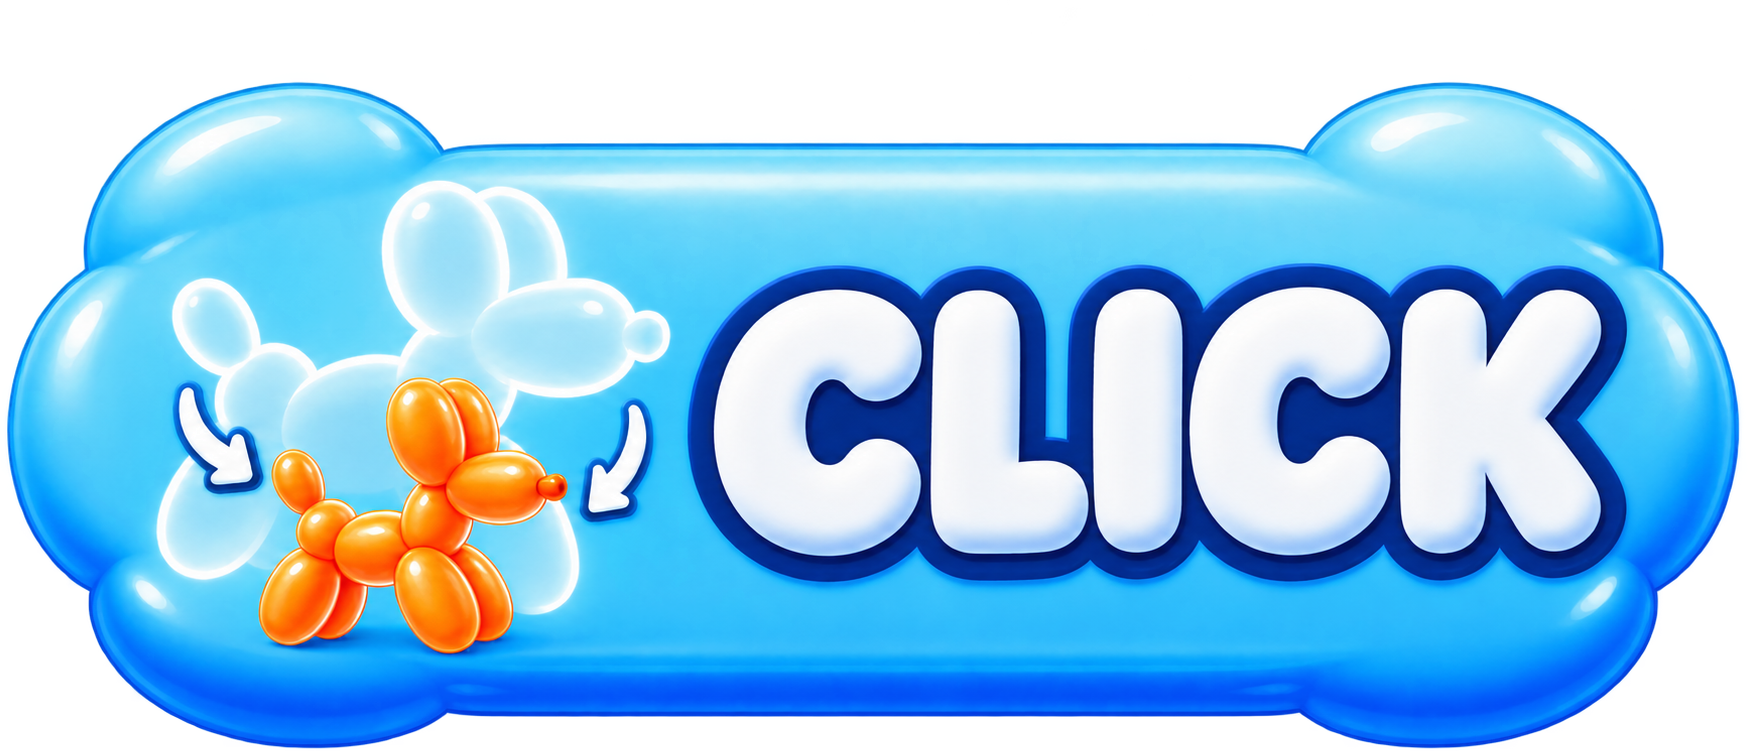
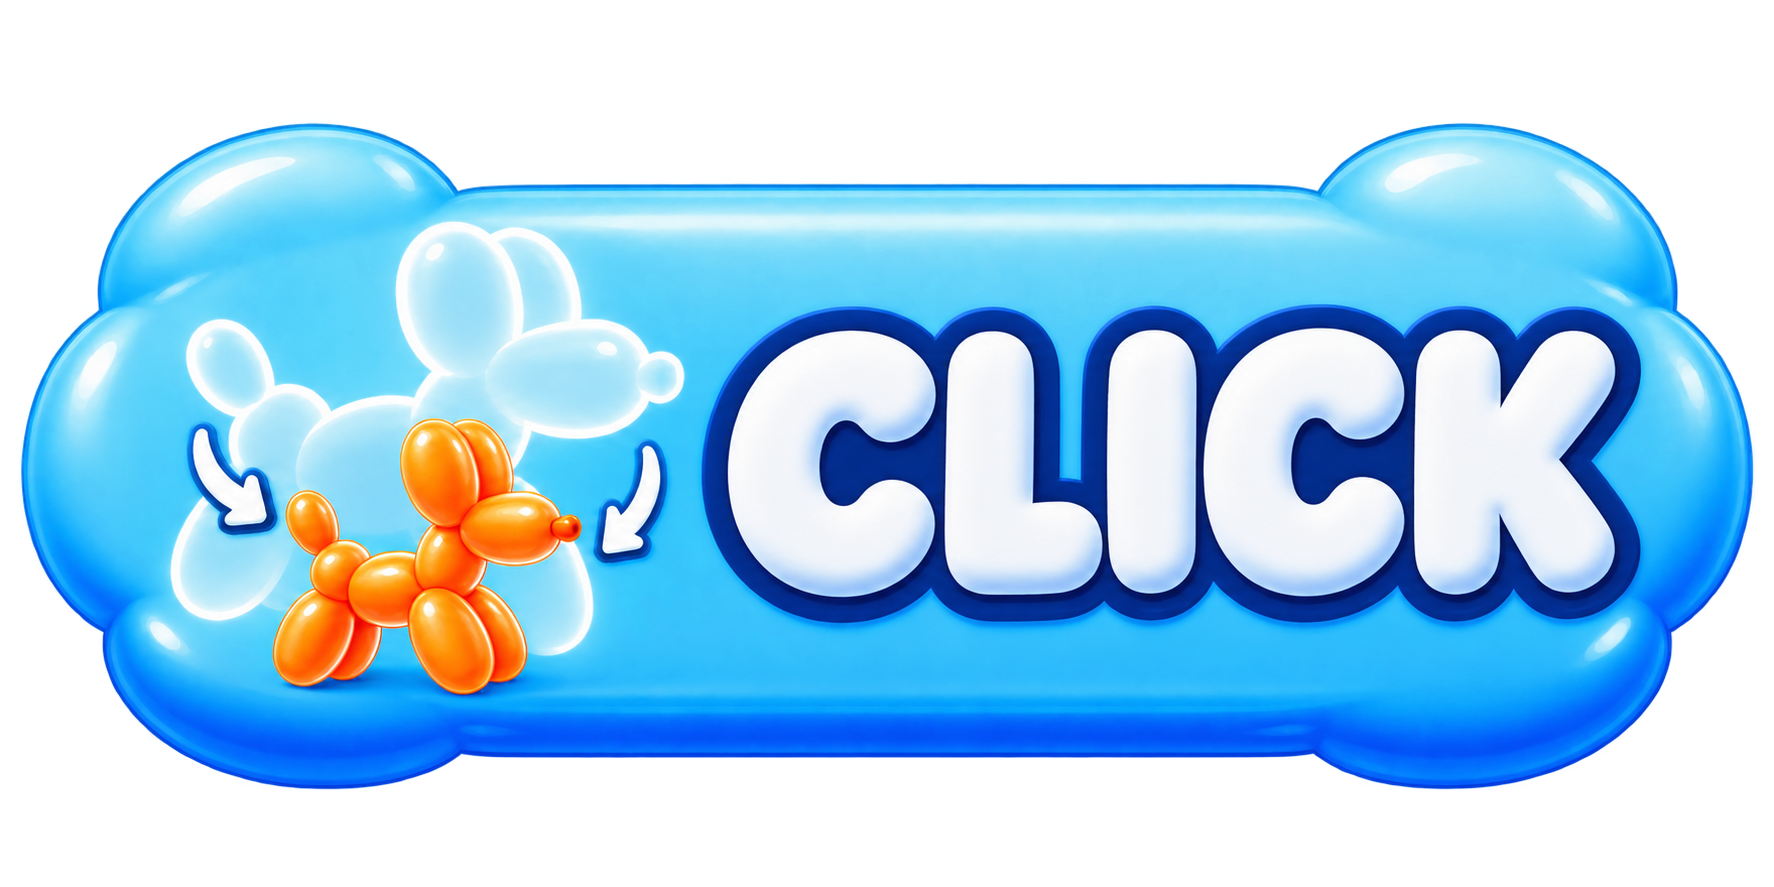
Apply supplied CLICK shrink artwork and rebalance menu and gameplay UI
Style the initially inactive shrink control from its own Awake/OnEnable lifecycle, rather than relying on the unused legacy menu theme. Install the exact supplied PNG as a Sprite, bake it into Game.unity, hide the old label and update the legacy scene builder.

Enlarge and align the main coin icon/count; center navigation icons and labels as a group; enlarge and space PLAY. Scale the complete air HUD to 50% with its logic unchanged. Center properly sized pause bars inside the gameplay pause button.

Validation: exact PNG bytes/alpha, Sprite import and baked references, lifecycle bindings, font/layout measurements at multiple widths, unchanged air and shrink/cooldown behavior, delimiter and diff checks passed. Unity is unavailable, so no Play-mode validation was run.

diff --git a/Assets/Scripts/BalloonDogBalloonThemeRuntime.cs b/Assets/Scripts/BalloonDogBalloonThemeRuntime.cs
@@ -174,9 +174,9 @@ public sealed class BalloonDogBalloonThemeRuntime : MonoBehaviour
             play.anchorMin = play.anchorMax = new Vector2(.5f, 0f);
             play.anchoredPosition = new Vector2(0f, 180f);
             play.sizeDelta = new Vector2(890f, 270f);
-            StyleButton(play, new Color(0.35f, 0.84f, 0.23f, 1f), "PLAY", 88f);
-            SetButtonLabelTuning(play, 0f, new Vector4(8f, 2f, 8f, 4f));
+            StyleButton(play, new Color(0.35f, 0.84f, 0.23f, 1f), "PLAY", 112f);
             SetButtonIcon(play, null);
+            SetButtonLabelTuning(play, 8f, new Vector4(30f, 6f, 30f, 12f));
             BalloonDogMenuArtwork.Apply(play, "butonyesil", true);
         }
 
@@ -189,24 +189,9 @@ public sealed class BalloonDogBalloonThemeRuntime : MonoBehaviour
             market.sizeDelta = size;
             StyleButton(market, new Color(0.18f, 0.54f, 0.96f, 1f), "MARKET", 68f);
             SetButtonLabelTuning(market, 0f, new Vector4(10f, 4f, 10f, 6f));
-            SetButtonIcon(market, GetMarketIconSprite(), 92f);
+            SetButtonIcon(market, GetMarketIconSprite(), 104f);
             BalloonDogMenuArtwork.Apply(market, "butonmavi", true);
-            RectTransform marketIcon = market.Find("ThemeIcon") as RectTransform;
-            if (marketIcon != null)
-            {
-                marketIcon.anchorMin = marketIcon.anchorMax = new Vector2(0.5f, 0.5f);
-                marketIcon.anchoredPosition = new Vector2(-size.x * .5f + 86f, 6f);
-            }
-            TMP_Text marketLabel = market.GetComponentInChildren<TMP_Text>(true);
-            if (marketLabel != null)
-            {
-                marketLabel.margin = Vector4.zero;
-                marketLabel.fontSize = 68f;
-                marketLabel.rectTransform.anchorMin = marketLabel.rectTransform.anchorMax = new Vector2(0.5f, 0.5f);
-                marketLabel.rectTransform.pivot = new Vector2(0.5f, 0.5f);
-                marketLabel.rectTransform.anchoredPosition = new Vector2(62f, 6f);
-                marketLabel.rectTransform.sizeDelta = new Vector2(size.x - 164f, 180f);
-            }
+            LayoutNavigationContent(market);
         }
 
         RectTransform skins = FindRect("SkinsNavButton");
@@ -218,25 +203,34 @@ public sealed class BalloonDogBalloonThemeRuntime : MonoBehaviour
             skins.sizeDelta = size;
             StyleButton(skins, new Color(0.18f, 0.54f, 0.96f, 1f), "SKINS", 68f);
             SetButtonLabelTuning(skins, 0f, new Vector4(10f, 4f, 10f, 6f));
-            SetButtonIcon(skins, GetSkinsIconSprite(), 92f);
+            SetButtonIcon(skins, GetSkinsIconSprite(), 104f);
             BalloonDogMenuArtwork.Apply(skins, "butonmavi", true);
-            RectTransform skinsIcon = skins.Find("ThemeIcon") as RectTransform;
-            if (skinsIcon != null)
-            {
-                skinsIcon.anchorMin = skinsIcon.anchorMax = new Vector2(0.5f, 0.5f);
-                skinsIcon.anchoredPosition = new Vector2(-size.x * .5f + 86f, 6f);
-            }
-            TMP_Text skinsLabel = skins.GetComponentInChildren<TMP_Text>(true);
-            if (skinsLabel != null)
-            {
-                skinsLabel.margin = Vector4.zero;
-                skinsLabel.fontSize = 68f;
-                skinsLabel.rectTransform.anchorMin = skinsLabel.rectTransform.anchorMax = new Vector2(0.5f, 0.5f);
-                skinsLabel.rectTransform.pivot = new Vector2(0.5f, 0.5f);
-                skinsLabel.rectTransform.anchoredPosition = new Vector2(62f, 6f);
-                skinsLabel.rectTransform.sizeDelta = new Vector2(size.x - 164f, 180f);
-            }
+            LayoutNavigationContent(skins);
         }
+    }
+
+    private static void LayoutNavigationContent(RectTransform button)
+    {
+        RectTransform icon = button.Find("ThemeIcon") as RectTransform;
+        TMP_Text label = button.GetComponentInChildren<TMP_Text>(true);
+        if (icon == null || label == null) return;
+        label.margin = Vector4.zero;
+        label.enableAutoSizing = false;
+        label.fontSize = 68f;
+        float labelWidth = label.GetPreferredValues(label.text).x + 8f;
+        float scale = Mathf.Min(1f, (button.sizeDelta.x - 80f) / (104f + 20f + labelWidth));
+        float iconSize = 104f * scale;
+        float gap = 20f * scale;
+        labelWidth *= scale;
+        label.fontSize *= scale;
+        float groupWidth = iconSize + gap + labelWidth;
+        icon.anchorMin = icon.anchorMax = icon.pivot = new Vector2(.5f, .5f);
+        icon.sizeDelta = new Vector2(iconSize, iconSize);
+        icon.anchoredPosition = new Vector2((-groupWidth + iconSize) * .5f, 6f);
+        RectTransform text = label.rectTransform;
+        text.anchorMin = text.anchorMax = text.pivot = new Vector2(.5f, .5f);
+        text.anchoredPosition = new Vector2((groupWidth - labelWidth) * .5f, 6f);
+        text.sizeDelta = new Vector2(labelWidth, 150f);
     }
 
     private static void GetMainNavigationLayout(Transform parent, out Vector2 size, out float offset)
@@ -262,13 +256,17 @@ public sealed class BalloonDogBalloonThemeRuntime : MonoBehaviour
             coinCard.anchoredPosition = new Vector2(18f, -14f);
             EnsurePillBackground(coinCard, new Color(0.91f, 0.86f, 0.63f, 0.96f), new Color(1f, 1f, 1f, 0.03f));
             BalloonDogMenuArtwork.Apply(coinCard, "coin_panel_background");
-            SetPillIcon(coinCard, GetCoinIconSprite(), Color.white, 44f, 34f);
+            SetPillIcon(coinCard, GetCoinIconSprite(), Color.white, 62f, 44f);
+            RectTransform icon = coinCard.Find("ThemePillIcon") as RectTransform;
+            if (icon != null) icon.anchoredPosition = new Vector2(44f, 6f);
         }
 
         if (coin != null)
         {
             coin.text = BalloonDogEconomy.Coins.ToString("N0");
-            coin.fontSize = 38f;
+            coin.fontSize = 46f;
+            coin.fontSizeMin = 20f;
+            coin.fontSizeMax = 46f;
             coin.fontStyle = FontStyles.Normal;
             coin.fontWeight = FontWeight.Bold;
             coin.alignment = TextAlignmentOptions.MidlineLeft;
@@ -278,9 +276,9 @@ public sealed class BalloonDogBalloonThemeRuntime : MonoBehaviour
             RectTransform labelRect = coin.rectTransform;
             labelRect.anchorMin = Vector2.zero;
             labelRect.anchorMax = Vector2.one;
-            labelRect.offsetMin = Vector2.zero;
-            labelRect.offsetMax = Vector2.zero;
-            coin.margin = new Vector4(76f, 0f, 18f, 0f);
+            labelRect.offsetMin = new Vector2(88f, 18f);
+            labelRect.offsetMax = new Vector2(-18f, -6f);
+            coin.margin = Vector4.zero;
         }
 
         RectTransform settings = FindRect("MainSettingsButton");

diff --git a/Assets/Scripts/BalloonDogModernUI.cs b/Assets/Scripts/BalloonDogModernUI.cs
@@ -2597,7 +2597,16 @@ public sealed class BalloonDogModernUI : MonoBehaviour
         stage.anchorMax = Vector2.one;
         stage.pivot = Vector2.one;
         stage.anchoredPosition = new Vector2(-24f, -24f);
-        pause.GetComponentInChildren<TMP_Text>().raycastTarget = false;
+        RectTransform pauseRect = pause.transform as RectTransform;
+        pauseRect.anchoredPosition = Vector2.zero;
+        pauseRect.sizeDelta = new Vector2(112f, 112f);
+        pause.GetComponentInChildren<TMP_Text>(true).gameObject.SetActive(false);
+        // The general action-button label has wide side margins. Use a centered
+        // pair of bars so a small pause button keeps a full-size, balanced icon.
+        RectTransform pauseGlyph = CreateRect("PauseGlyph", pause.transform);
+        SetRect(pauseGlyph, new Vector2(0f, 4f), new Vector2(42f, 44f));
+        CreateImage(pauseGlyph, "LeftBar", new Vector2(-12f, 0f), new Vector2(13f, 44f), Color.white, false);
+        CreateImage(pauseGlyph, "RightBar", new Vector2(12f, 0f), new Vector2(13f, 44f), Color.white, false);
 
     }
 
@@ -2606,9 +2615,10 @@ public sealed class BalloonDogModernUI : MonoBehaviour
         RectTransform card = CreateRect("GameplayAirHud", parent);
         card.anchorMin = new Vector2(0f, 1f);
         card.anchorMax = Vector2.one;
-        card.pivot = new Vector2(.5f, 1f);
+        card.pivot = new Vector2(0f, 1f);
         card.offsetMin = new Vector2(24f, -150f);
         card.offsetMax = new Vector2(-160f, -22f);
+        card.localScale = Vector3.one * .5f;
         Image shell = card.gameObject.AddComponent<Image>();
         shell.sprite = GetRoundedSprite();
         shell.type = Image.Type.Sliced;

diff --git a/Assets/Scripts/MainMenuController.cs b/Assets/Scripts/MainMenuController.cs
@@ -437,7 +437,7 @@ public sealed class MainMenuController : MonoBehaviour
             30f);
 
         ApplyCleanMainMenuLayout();
-        StyleShrinkButton();
+        StyleShrinkButton(FindNamedObject("ShrinkButton"));
     }
 
     private void ApplyCleanMainMenuLayout()
@@ -725,10 +725,8 @@ public sealed class MainMenuController : MonoBehaviour
         rect.localScale = Vector3.one;
     }
 
-    private static void StyleShrinkButton()
+    public static void StyleShrinkButton(GameObject shrinkButton)
     {
-        GameObject shrinkButton = FindNamedObject("ShrinkButton");
-
         if (shrinkButton == null)
         {
             return;
@@ -814,9 +812,10 @@ public sealed class MainMenuController : MonoBehaviour
 
         cachedShrinkIconSprite = Sprite.Create(
             texture,
-            new Rect(0f, 0f, texture.width, texture.height),
+            new Rect(14f, 95f, 1748f, 751f),
             new Vector2(0.5f, 0.5f),
             100f);
+        cachedShrinkIconSprite.name = "Shrink CLICK Artwork";
 
         return cachedShrinkIconSprite;
     }

diff --git a/Assets/Scripts/BalloonDogPrototypeBootstrap.cs b/Assets/Scripts/BalloonDogPrototypeBootstrap.cs
@@ -659,10 +659,14 @@ public sealed class BalloonDogPrototypeBootstrap : MonoBehaviour
         GameObject shrinkButton = CreateButton(
             canvas.transform,
             "ShrinkButton",
-            "KÜÇÜL\nBASILI TUT");
+            string.Empty);
         SetRect(shrinkButton.GetComponent<RectTransform>(),
-            new Vector2(0.5f, 0f), new Vector2(0.5f, 0f), new Vector2(0.5f, 0f),
-            new Vector2(0f, 70f), new Vector2(360f, 150f));
+            new Vector2(0.5f, 0f), new Vector2(0.5f, 0f), new Vector2(0.5f, 0.5f),
+            new Vector2(0f, 115f), new Vector2(420f, 210f));
+        Image shrinkImage = shrinkButton.GetComponent<Image>();
+        shrinkImage.sprite = Resources.Load<Sprite>("shrink_transform_icon");
+        shrinkImage.color = Color.white;
+        shrinkImage.preserveAspect = true;
         GetOrAdd<HoldShrinkButton>(shrinkButton).Configure(sizeController);
 
         GameObject endPanel = CreateEndPanel(

diff --git a/Assets/Scripts/HoldShrinkButton.cs b/Assets/Scripts/HoldShrinkButton.cs
@@ -22,7 +22,15 @@ public sealed class HoldShrinkButton : MonoBehaviour, IPointerDownHandler
     private void Awake()
     {
         button = GetComponent<Button>();
+        MainMenuController.StyleShrinkButton(gameObject);
         RefreshVisuals();
+    }
+
+    private void OnEnable()
+    {
+        // This button starts inactive in the baked scene. Style it whenever it
+        // becomes visible, independently of the retired main-menu theme path.
+        MainMenuController.StyleShrinkButton(gameObject);
     }
 
     public void Configure(BalloonSizeController controller)
